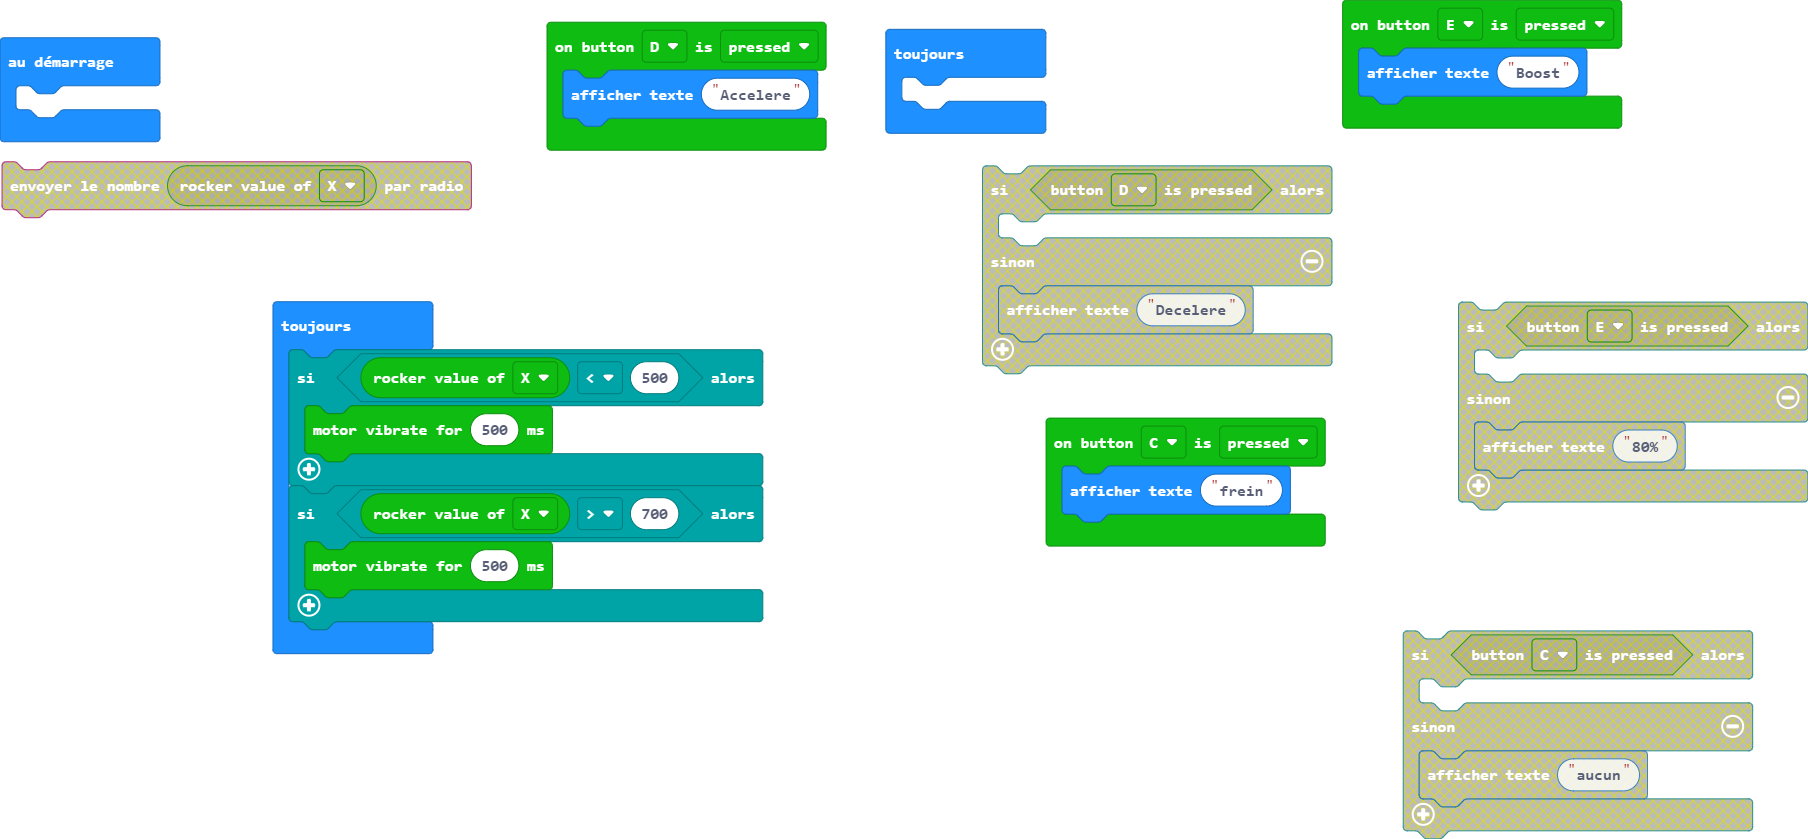
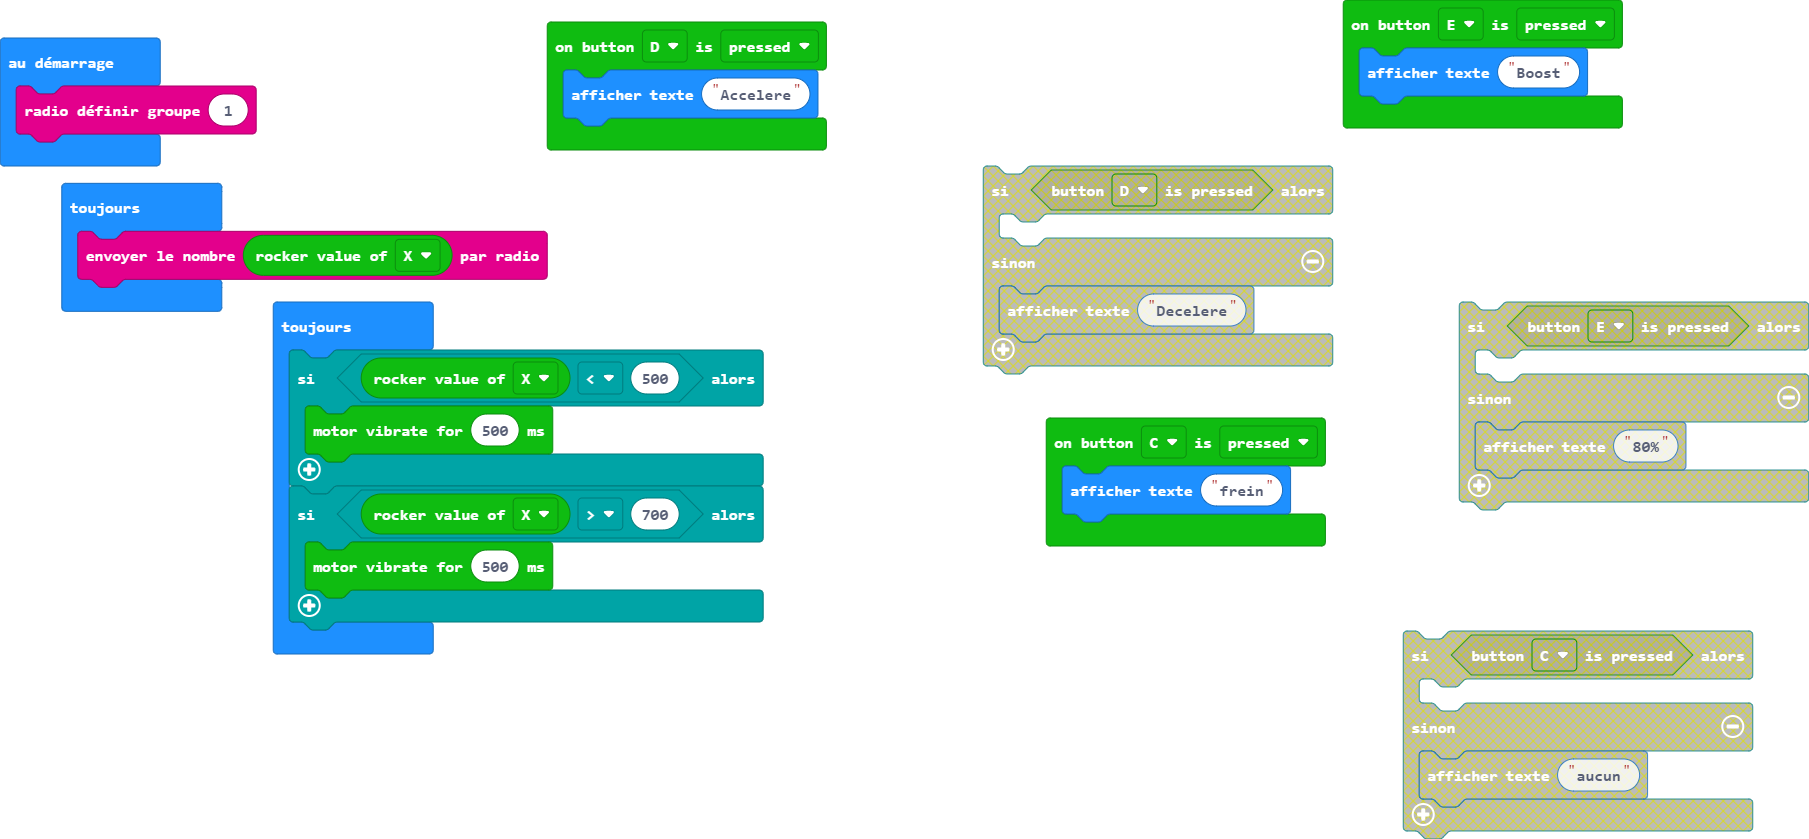
Mise à jour main.blocks, main.ts

diff --git a/main.ts b/main.ts
@@ -7,8 +7,9 @@ joystickbit.onButtonEvent(joystickbit.JoystickBitPin.P13, joystickbit.ButtonType
 joystickbit.onButtonEvent(joystickbit.JoystickBitPin.P12, joystickbit.ButtonType.down, function () {
     basic.showString("frein")
 })
+radio.setGroup(1)
 basic.forever(function () {
-	
+    radio.sendNumber(joystickbit.getRockerValue(joystickbit.rockerType.X))
 })
 basic.forever(function () {
     if (joystickbit.getRockerValue(joystickbit.rockerType.X) < 500) {
